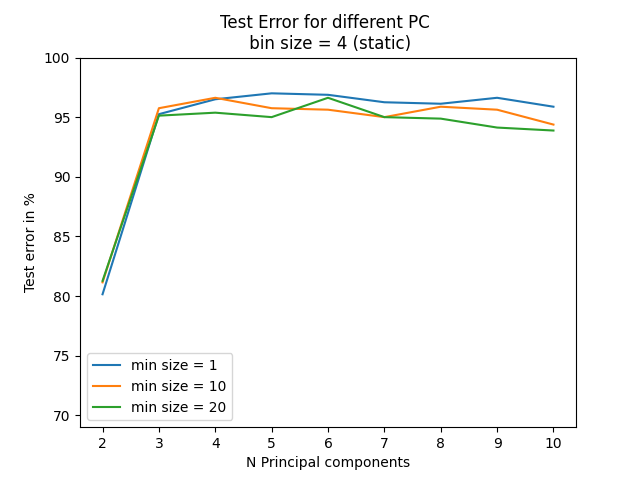
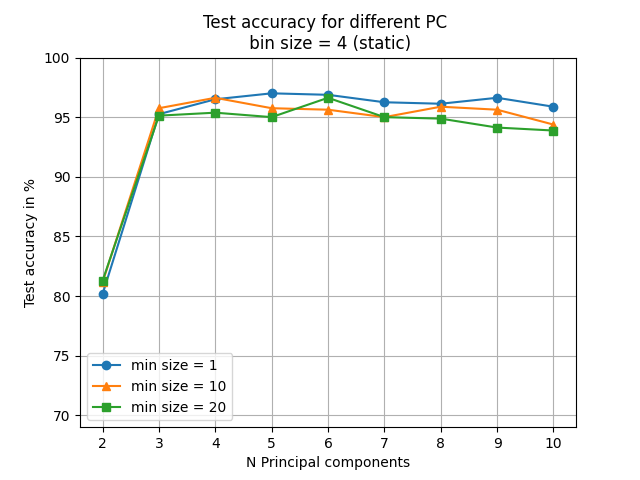
update figures and knn classifier

diff --git a/src/genes_pipeline/decision_tree.py b/src/genes_pipeline/decision_tree.py
@@ -2,6 +2,7 @@ import pandas as pd
 import scipy.stats
 import copy
 import sys
+import random
 
 class decisionTree:
 
@@ -37,8 +38,11 @@ class decisionTree:
         self.classIntMaping = {}
         self.tree = None
         self.values_per_bin = [len(data) / bins[i] for i in range(self.n_features)]
+        self.bins = bins
         self.originalData = data
+        self.thresholds = [[]for x in range(self.n_features)]
         self.data = self.dataToSymbolic(self.originalData)
+
 
         self.allFeatures = [ [] for x in range(self.n_features)]
         for vector in self.data:
@@ -49,18 +53,30 @@ class decisionTree:
     def train(self):
         self.tree = self.splitBranchRec(self.data,self.allFeatures)
 
-    def valueToSymbolic(self,feature, value):
-        rank = 0
-        for i in range(len(self.originalData)):
-            if value > self.originalData[i][feature]:
-                rank +=1
-        return (int)(rank / self.values_per_bin[feature])
-
     def  dataToSymbolic(self,data):
         symbolic_data = [[] for i in range(len(data))]
+        
         for idx_feature in range(self.n_features):
+            values = []
+            for vector in data:
+                values.append(vector[idx_feature])
+            values = sorted(values)
+            
+            self.thresholds[idx_feature] = [values[ (1+ x) * ( (int)(self.values_per_bin[idx_feature]) -1 )  ] for x in range(self.bins[idx_feature])]
+                
+                
+
+            
             for i,vector in enumerate(data):
-                symbolic_data[i].append(self.valueToSymbolic(idx_feature,vector[idx_feature]))
+                bin =0
+
+                while vector[idx_feature] > self.thresholds[idx_feature][bin]:
+                    bin +=1
+                    if bin == len(self.thresholds[idx_feature]):
+                        break
+
+                symbolic_data[i].append(bin)
+            
         n_classes = 0
         for i,vector in enumerate(data):
             if vector[-1] not in self.classIntMaping:
@@ -95,10 +111,14 @@ class decisionTree:
             if len(feature) ==1:
                 continue
 
+            #if random.randint(0,100) != 42:
+            #    continue
+
             for value in feature:
                 if len(feature) ==2 and value == feature[1]:
                     #already investigated this option of splitting
                     continue
+
                 dataBranch1 = []
                 dataBranch2 = []
                 for instance in currentData:
@@ -114,6 +134,7 @@ class decisionTree:
                     minEntropy = entropy
                     featureMinEntropy = index
                     valueMinEntropy = value
+
         if featureMinEntropy != -1:
             dataBranch1 = []
             dataBranch2 = []
@@ -146,7 +167,18 @@ class decisionTree:
         if self.tree == None:
             print("Tree is not trained jet (use 'train()'") 
             sys.exit(1)
-        symbolic_vector = [self.valueToSymbolic(i,vector[i]) for i in range(self.n_features)]
+
+        #to symbolic data:
+        symbolic_vector = []
+        for i,value in enumerate(vector):
+            bin =0
+            while value > self.thresholds[i][bin]:
+                bin +=1
+                if bin == len(self.thresholds[i]):
+                    break
+
+            symbolic_vector.append(bin)
+
         return self.classifyRec(self.tree,symbolic_vector )
 
 

diff --git a/src/genes_pipeline/knn_classifier.py b/src/genes_pipeline/knn_classifier.py
@@ -1,0 +1,107 @@
+
+import sys
+import csv
+from sklearn.decomposition import PCA
+import matplotlib.pyplot as plt
+import random
+import numpy as np
+from sklearn.neighbors import KNeighborsClassifier
+
+PATH = "Genes/data.csv"
+
+N_PC = [2,5,10,20,50]
+K = 10 #for k fold cross validation
+N_NEIGHBOURS = [1,10,30] # for knn classifier
+
+
+def getData(path):
+    data = []
+    labels = []
+    distinct_labels = []
+
+    with open(path, newline='') as csvfile:
+        reader = csv.reader(csvfile)
+        for row in reader:
+            data.append(row[1:])
+
+    with open("Genes/labels.csv", newline='') as csvfile:
+        reader = csv.reader(csvfile)
+        for label in reader:
+            try:
+                labels.append(label[1])
+            except ValueError:
+                print(label)
+                labels.append(label)
+
+    #not interested in first row with gene description (278820 genes, 802 individuals)
+    data = data[1:]
+    #transform to floats
+    for i in range(len(data)):
+        for j in range(len(data[0])):
+            data[i][j] = float(data[i][j]) 
+
+    labels = labels[1:]
+
+    distinct_labels = [] #should be ['PRAD', 'LUAD', 'BRCA', 'KIRC', 'COAD']
+    for label in labels:
+        if label not in distinct_labels:
+            distinct_labels.append(label)
+    return data, labels
+
+print("Loading data...")
+data, labels = getData(PATH)
+print("...finished loading data")
+
+
+training = []
+testing = []
+size_training = len(data) / K
+
+distinct_lables = ['PRAD', 'LUAD', 'BRCA', 'KIRC', 'COAD']
+confusion_matrix = [[0,0,0,0,0] for x in range(5)]
+
+performance = [0 for x in N_PC]
+
+results = [ [0 for y in range(len(N_PC))] for x in range(len(N_NEIGHBOURS))]
+for i, n_components in enumerate(N_PC):
+
+    print("PCA with {0} pcs...".format(n_components))
+    pca = PCA(n_components=n_components)
+    reduced_data_np = pca.fit(data).transform(data)
+    print("...finished pca")
+
+    reduced_data = reduced_data_np.tolist()
+    for j,value in enumerate(reduced_data):
+        value.append(labels[j])
+    random.shuffle(reduced_data) #shuffle data
+
+    for j,n_neigh in enumerate(N_NEIGHBOURS):
+        for fold_position in range(K):
+            testing  = reduced_data[ int(fold_position * size_training) : int((fold_position +1 ) * size_training)]
+
+            training = reduced_data[: int(fold_position * size_training)] +  reduced_data[int((fold_position+1) * size_training):]
+            
+            knn = KNeighborsClassifier(n_neighbors=n_neigh)
+            knn.fit( [x[:-1] for x in training],  [x[-1] for x in training])
+
+
+            for value in testing:
+                if knn.predict([value[:-1]])[0] == value[-1]:
+                    results[j][i] += 1
+    
+markers = ['o', '^', 's','v', '<','>','1','2','3','4' ]
+for i,r in enumerate(results):
+    plt.plot(N_PC,[(x*100) / len(data)  for x in r], label = "k = " + str(N_NEIGHBOURS[i]), marker = markers[i] )
+    print([x / len(data)  for x in r])
+
+plt.legend()
+
+plt.xlabel("N Principal components")
+plt.ylabel("Test accuracy in %")
+
+plt.title("Test accuracy for KNN")
+
+plt.legend()
+plt.grid()
+plt.show()
+

diff --git a/src/genes_pipeline/plot_results.py b/src/genes_pipeline/plot_results.py
@@ -17,20 +17,21 @@ if True:
     #PErformance with stopping value = 20
     d = [0.8127340823970037, 0.951310861423221, 0.9538077403245943, 0.9500624219725343, 0.9662921348314607, 0.9500624219725343, 0.9488139825218477, 0.9413233458177278, 0.9388264669163545]
    
-    plt.plot(x, [x*100 for x in a], label = "min size = 1")
-    plt.plot(x, [x*100 for x in c], label = "min size = 10")
-    plt.plot(x, [x*100 for x in d], label = "min size = 20")
+    plt.plot(x, [x*100 for x in a], label = "min size = 1", marker='o')
+    plt.plot(x, [x*100 for x in c], label = "min size = 10", marker='^')
+    plt.plot(x, [x*100 for x in d], label = "min size = 20", marker='s')
 
     plt.legend()
 
     plt.xlabel("N Principal components")
-    plt.ylabel("Test error in %")
+    plt.ylabel("Test accuracy in %")
 
-    plt.title("Test Error for different PC \n bin size = 4 (static)")
+    plt.title("Test accuracy for different PC \n bin size = 4 (static)")
 
     plt.ylim([69,100])
 
     plt.legend()
+    plt.grid()
     plt.show()
 
 if True:
@@ -45,19 +46,20 @@ if True:
     #PErformance with stopping value = 20
     d = [0.6966292134831461, 0.8776529338327091, 0.9588014981273408, 0.9588014981273408, 0.9625468164794008, 0.9425717852684145, 0.9325842696629213, 0.9250936329588015, 0.9338327091136079]
     
-    plt.plot(x, [x*100 for x in a], label = "min size = 1")
-    plt.plot(x, [x*100 for x in c], label = "min size = 10")
-    plt.plot(x, [x*100 for x in d], label = "min size = 20")
+    plt.plot(x, [x*100 for x in a], label = "min size = 1", marker='o')
+    plt.plot(x, [x*100 for x in c], label = "min size = 10", marker='^')
+    plt.plot(x, [x*100 for x in d], label = "min size = 20", marker='s')
 
     plt.legend()
 
     plt.xlabel("N Principal components")
-    plt.ylabel("Test error in %")
+    plt.ylabel("Test accuracy in %")
 
-    plt.title("Test Error for different PC \n bin size = 8 (static)")
+    plt.title("Test accuracy for different PC \n bin size = 8 (static)")
     plt.ylim([69,100])
 
     plt.legend()
+    plt.grid()
     plt.show()
 
 if True:
@@ -72,17 +74,18 @@ if True:
     #PErformance with stopping value = 20
     d = [0.6966292134831461, 0.8776529338327091, 0.9588014981273408, 0.9588014981273408, 0.9625468164794008, 0.9425717852684145, 0.9325842696629213, 0.9250936329588015, 0.9338327091136079]
     
-    plt.plot(x, [x*100 for x in a], label = "min size = 1")
-    plt.plot(x, [x*100 for x in c], label = "min size = 10")
-    plt.plot(x, [x*100 for x in d], label = "min size = 20")
+    plt.plot(x, [x*100 for x in a], label = "min size = 1", marker='o')
+    plt.plot(x, [x*100 for x in c], label = "min size = 10", marker='^')
+    plt.plot(x, [x*100 for x in d], label = "min size = 20", marker='s')
 
     plt.legend()
 
     plt.xlabel("N Principal components")
-    plt.ylabel("Test error in %")
+    plt.ylabel("Test accuracy in %")
 
-    plt.title("Test Error for different PC \n bin size is adaptive")
+    plt.title("Test accuracy for different PC \n bin size is adaptive")
     plt.ylim([69,100])
 
     plt.legend()
+    plt.grid()
     plt.show()

diff --git a/src/genes_pipeline/k-fold-cross-validation.py b/src/genes_pipeline/k-fold-cross-validation.py
@@ -61,9 +61,10 @@ training = []
 testing = []
 size_training = len(data) / K
 
+distinct_lables = ['PRAD', 'LUAD', 'BRCA', 'KIRC', 'COAD']
+confusion_matrix = [[0,0,0,0,0] for x in range(5)]
 
-
-if False:
+if True:
     performance = [0 for x in N_PC]
     for i, n_components in enumerate(N_PC):
 
@@ -81,30 +82,34 @@ if False:
 
             training = reduced_data[: int(fold_position * size_training)] +  reduced_data[int((fold_position+1) * size_training):]
             
-            forrest = randomForest(reduced_data,n_trees= 40, bins= 4, stoppingCriteria= "size", stoppingValue= 1)
-
-
+            dt = randomForest(training,n_trees = 40, bins = 4, stoppingCriteria= "size", stoppingValue= 1)
             for value in testing:
-                if forrest.classify(value[:-1]) == value[-1]:
+                i1 = distinct_lables.index(value[-1])
+                i2 = distinct_lables.index(dt.classify(value[:-1]))
+                confusion_matrix[i1][i2] +=1
+
+                if dt.classify(value[:-1]) == value[-1]:
                     performance[i] += 1
         
         performance[i] /= len(reduced_data)
 
     print(performance)
+    print(confusion_matrix)
 
-#test without dimensional reduction
-testing  = data[642:]
-performance = 0 
-training = data[0:642]
+if False:
+    #test without dimensional reduction
+    testing  = data[642:]
+    performance = 0 
+    training = data[0:642]
 
-tr = decisionTree(training, bins= 4, stoppingCriteria= "size", stoppingValue= 1)
-tr.train()
+    tr = decisionTree(training, bins= 4, stoppingCriteria= "size", stoppingValue= 1)
+    tr.train()
 
-for value in testing:
-    if tr.classify(value[:-1]) == value[-1]:
-        performance += 1
+    for value in testing:
+        if tr.classify(value[:-1]) == value[-1]:
+            performance += 1
 
-print(performance)
+    print(performance)
 
 
 #[n_components +1 - x for x in range(n_components)]

diff --git a/src/genes_pipeline/confusion matrix.py b/src/genes_pipeline/confusion matrix.py
@@ -1,0 +1,15 @@
+
+import sys
+from sklearn.metrics import f1_score
+
+tree = [[135, 0, 0, 0, 1], [0, 136, 2, 1, 2], [1, 4, 294, 1, 0], [0, 1, 1, 144, 0], [0, 4, 0, 1, 73]]
+
+y_true = [0 for x in range(sum(tree[0]))] + [1 for x in range(sum(tree[1]))]+  [2 for x in range(sum(tree[2]))]+ [3 for x in range(sum(tree[3]))] +[4 for x in range(sum(tree[4]))] 
+
+y_pred = []
+for row in tree:
+    for i, n in enumerate(row):
+        for x in range(n):
+            y_pred.append(i)
+
+print(f1_score(y_true, y_pred, average="weighted"))
